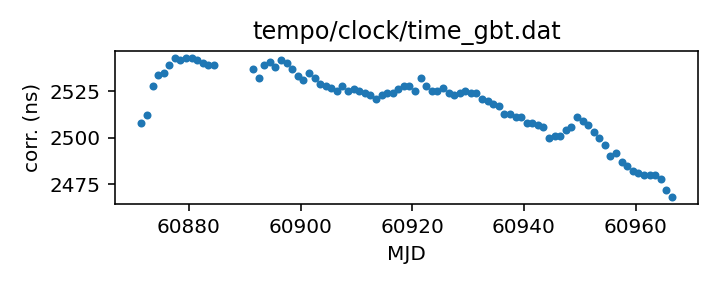
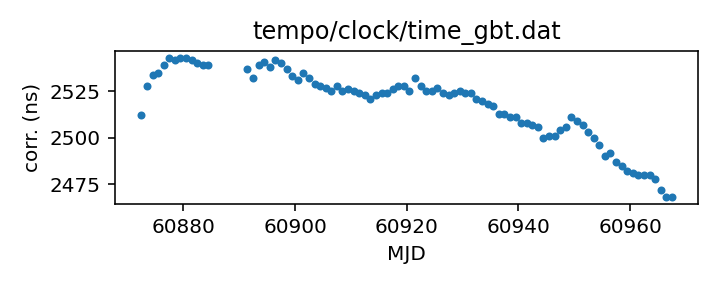
Routine gh-pages update from Github action Mon Oct 20 20:43:03 UTC 2025

diff --git a/status.md b/status.md
@@ -13,18 +13,18 @@ name of each clock file links to a page with more details.
 
 | Name | File | Corrections start | Corrections end | Last check date | Last check result 
 |:--- |:--- | --- | --- | --- |:--- 
-| [GPS to UTC](T2runtime/clock/gps2utc.clk.html) | `T2runtime/clock/gps2utc.clk` | 1993-01-01 MJD 48988.0 | 2025-09-26 MJD 60944.0 | 2025-10-19 | Unchanged 
-| [GPS to UTC (Combined Clock)](T2runtime/clock/gps2utc_cc.clk.html) | `T2runtime/clock/gps2utc_cc.clk` | 1993-01-01 MJD 48988.0 | 2025-09-26 MJD 60944.0 | 2025-10-19 | Unchanged 
-| [GPS to UTC (Corrected)](T2runtime/clock/gps2utc_c0p.clk.html) | `T2runtime/clock/gps2utc_c0p.clk` | 2010-12-29 MJD 55559.0 | 2025-09-26 MJD 60944.0 | 2025-10-19 | Unchanged 
-| [GBT](tempo/clock/time_gbt.dat.html) | `tempo/clock/time_gbt.dat` | 2000-12-31 MJD 51909.5 | 2025-10-18 MJD 60966.5 | 2025-10-19 | Updated 
-| [GBT (TEMPO2 converted from TEMPO)](T2runtime/clock/gbt2gps.clk.html) | `T2runtime/clock/gbt2gps.clk` | 2000-12-31 MJD 51909.5 | 2024-05-18 MJD 60448.5 | 2025-10-19 | **Validation failed** 
-| [Jodrell Bank](T2runtime/clock/jb2gps.clk.html) | `T2runtime/clock/jb2gps.clk` | 2006-10-13 MJD 54021.4 | 2025-10-08 MJD 60956.0 | 2025-10-13 | Updated 
-| [Jodrell Bank Roach](T2runtime/clock/jbroach2jb.clk.html) | `T2runtime/clock/jbroach2jb.clk` | 2006-10-13 MJD 54021.4 | 2018-03-20 MJD 58197.6 | 2025-10-13 | Unchanged 
-| [Jodrell Bank DFB](T2runtime/clock/jbdfb2jb.clk.html) | `T2runtime/clock/jbdfb2jb.clk` | 2006-10-13 MJD 54021.4 | 2021-02-22 MJD 59268.0 | 2025-10-13 | Unchanged 
-| [Meerkat (observatory)](T2runtime/clock/mk2utc_observatory.clk.html) | `T2runtime/clock/mk2utc_observatory.clk` | 2019-01-01 MJD 58484.0 | 2025-10-02 MJD 60951.0 | 2025-10-13 | Updated 
-| [Leap seconds](tempo/clock/leap.sec.html) | `tempo/clock/leap.sec` | 1972-07-01 MJD 41499.0 | 2017-01-01 MJD 57754.0 | 2025-10-19 | Unchanged 
-| [UT1 table](tempo/clock/ut1.dat.html) | `tempo/clock/ut1.dat` | 1973-01-02 MJD 41684.0 | 2026-10-24 MJD 61337.0 | 2025-10-19 | Unchanged 
-| [UT1 table](T2runtime/clock/ut1.dat.html) | `T2runtime/clock/ut1.dat` | 1973-01-02 MJD 41684.0 | 2026-10-24 MJD 61337.0 | 2025-10-19 | Unchanged 
+| [GPS to UTC](T2runtime/clock/gps2utc.clk.html) | `T2runtime/clock/gps2utc.clk` | 1993-01-01 MJD 48988.0 | 2025-09-26 MJD 60944.0 | 2025-10-20 | Unchanged 
+| [GPS to UTC (Combined Clock)](T2runtime/clock/gps2utc_cc.clk.html) | `T2runtime/clock/gps2utc_cc.clk` | 1993-01-01 MJD 48988.0 | 2025-09-26 MJD 60944.0 | 2025-10-20 | Unchanged 
+| [GPS to UTC (Corrected)](T2runtime/clock/gps2utc_c0p.clk.html) | `T2runtime/clock/gps2utc_c0p.clk` | 2010-12-29 MJD 55559.0 | 2025-09-26 MJD 60944.0 | 2025-10-20 | Unchanged 
+| [GBT](tempo/clock/time_gbt.dat.html) | `tempo/clock/time_gbt.dat` | 2000-12-31 MJD 51909.5 | 2025-10-19 MJD 60967.5 | 2025-10-20 | Updated 
+| [GBT (TEMPO2 converted from TEMPO)](T2runtime/clock/gbt2gps.clk.html) | `T2runtime/clock/gbt2gps.clk` | 2000-12-31 MJD 51909.5 | 2024-05-18 MJD 60448.5 | 2025-10-20 | **Validation failed** 
+| [Jodrell Bank](T2runtime/clock/jb2gps.clk.html) | `T2runtime/clock/jb2gps.clk` | 2006-10-13 MJD 54021.4 | 2025-10-08 MJD 60956.0 | 2025-10-20 | Unchanged 
+| [Jodrell Bank Roach](T2runtime/clock/jbroach2jb.clk.html) | `T2runtime/clock/jbroach2jb.clk` | 2006-10-13 MJD 54021.4 | 2018-03-20 MJD 58197.6 | 2025-10-20 | Unchanged 
+| [Jodrell Bank DFB](T2runtime/clock/jbdfb2jb.clk.html) | `T2runtime/clock/jbdfb2jb.clk` | 2006-10-13 MJD 54021.4 | 2021-02-22 MJD 59268.0 | 2025-10-20 | Unchanged 
+| [Meerkat (observatory)](T2runtime/clock/mk2utc_observatory.clk.html) | `T2runtime/clock/mk2utc_observatory.clk` | 2019-01-01 MJD 58484.0 | 2025-10-02 MJD 60951.0 | 2025-10-20 | Unchanged 
+| [Leap seconds](tempo/clock/leap.sec.html) | `tempo/clock/leap.sec` | 1972-07-01 MJD 41499.0 | 2017-01-01 MJD 57754.0 | 2025-10-20 | Unchanged 
+| [UT1 table](tempo/clock/ut1.dat.html) | `tempo/clock/ut1.dat` | 1973-01-02 MJD 41684.0 | 2026-10-24 MJD 61337.0 | 2025-10-20 | Unchanged 
+| [UT1 table](T2runtime/clock/ut1.dat.html) | `T2runtime/clock/ut1.dat` | 1973-01-02 MJD 41684.0 | 2026-10-24 MJD 61337.0 | 2025-10-20 | Unchanged 
 
 
 
@@ -68,26 +68,26 @@ name of each clock file links to a page with more details.
 
 | Name | File | Corrections start | Corrections end | Last check date | Last check result 
 |:--- |:--- | --- | --- | --- |:--- 
-| [GPS to UTC (TEMPO2)](T2runtime/clock/gpst2utc_tempo2.clk.html) | `T2runtime/clock/gpst2utc_tempo2.clk` | 1993-01-01 MJD 48988.0 | 2024-12-30 MJD 60674.0 | 2025-10-13 | Unchanged 
-| [GBT (TEMPO2)](T2runtime/clock/gbt2gps_tempo2.clk.html) | `T2runtime/clock/gbt2gps_tempo2.clk` | 2000-12-31 MJD 51909.5 | 2020-02-25 MJD 58904.5 | 2025-10-13 | Unchanged 
-| [Jodrell Bank (TEMPO)](tempo/clock/time_jb.dat.html) | `tempo/clock/time_jb.dat` | 2006-10-13 MJD 54021.4 | 2019-05-13 MJD 58616.2 | 2025-10-13 | Unchanged 
-| [VLA](tempo/clock/time_vla.dat.html) | `tempo/clock/time_vla.dat` | 1990-10-27 MJD 48191.2 | 2025-02-10 MJD 60716.2 | 2025-10-13 | Unchanged 
-| [VLA (TEMPO2)](T2runtime/clock/vla2gps.clk.html) | `T2runtime/clock/vla2gps.clk` | 2015-02-01 MJD 57054.6 | 2025-02-10 MJD 60716.2 | 2025-10-13 | Unchanged 
-| [VLA to NIST](T2runtime/clock/vla2nist.clk.html) | `T2runtime/clock/vla2nist.clk` | 1990-10-27 MJD 48191.2 | 1993-11-13 MJD 49304.0 | 2025-10-13 | Unchanged 
-| [FAST](tempo/clock/time_fast.dat.html) | `tempo/clock/time_fast.dat` | 2017-07-27 MJD 57961.0 | 2025-08-25 MJD 60913.0 | 2025-10-13 | **Failed to download** 
-| [WSRT](T2runtime/clock/wsrt2gps.clk.html) | `T2runtime/clock/wsrt2gps.clk` | 1999-01-01 MJD 51179.5 | 2015-06-29 MJD 57202.1 | 2025-10-13 | Unchanged 
-| [WSRT (TEMPO)](tempo/clock/time_wsrt.dat.html) | `tempo/clock/time_wsrt.dat` | 1987-07-24 MJD 47000.0 | 2007-12-24 MJD 54458.0 | 2025-10-13 | **Validation failed** 
-| [Parkes](T2runtime/clock/pks2gps.clk.html) | `T2runtime/clock/pks2gps.clk` | 1858-11-17 MJD 0.0 | 2025-06-30 MJD 60856.1 | 2025-10-13 | Unchanged 
-| [Parkes (TEMPO)](tempo/clock/time_pks.dat.html) | `tempo/clock/time_pks.dat` | 1979-05-07 MJD 44000.0 | 2011-07-03 MJD 55745.8 | 2025-10-13 | Unchanged 
-| [SRT](T2runtime/clock/srt2gps.clk.html) | `T2runtime/clock/srt2gps.clk` | 2013-03-20 MJD 56371.0 | 2019-12-11 MJD 58828.0 | 2025-10-13 | Unchanged 
-| [Effelsberg](T2runtime/clock/eff2gps.clk.html) | `T2runtime/clock/eff2gps.clk` | 1993-11-29 MJD 49320.0 | 2015-06-22 MJD 57195.5 | 2025-10-13 | Unchanged 
-| [Effelsberg Asterix/PSRix](T2runtime/clock/effix2gps.clk.html) | `T2runtime/clock/effix2gps.clk` | 2011-01-01 MJD 55562.5 | 2021-03-21 MJD 59294.5 | 2025-10-13 | Unchanged 
-| [LEAP](T2runtime/clock/leap2effix.clk.html) | `T2runtime/clock/leap2effix.clk` | 2012-10-29 MJD 56230.0 | 2014-03-04 MJD 56720.0 | 2025-10-13 | Unchanged 
-| [NUPPI](tempo/clock/time_nuppi.dat.html) | `tempo/clock/time_nuppi.dat` | 2005-03-07 MJD 53436.0 | 2015-11-08 MJD 57334.6 | 2025-10-13 | Unchanged 
-| [Meerkat (TEMPO2)](T2runtime/clock/mk2utc.clk.html) | `T2runtime/clock/mk2utc.clk` | 2019-01-01 MJD 58484.0 | 2024-09-23 MJD 60576.9 | 2025-10-13 | **Validation failed** 
-| [MOST](T2runtime/clock/mo2gps.clk.html) | `T2runtime/clock/mo2gps.clk` | 2003-12-27 MJD 53000.0 | 2018-09-06 MJD 58367.0 | 2025-10-13 | Unchanged 
-| [Nancay to obspm](T2runtime/clock/ncyobs2obspm.clk.html) | `T2runtime/clock/ncyobs2obspm.clk` | 1988-05-18 MJD 47299.6 | 2024-12-30 MJD 60674.0 | 2025-10-13 | Unchanged 
-| [obspm](T2runtime/clock/obspm2gps.clk.html) | `T2runtime/clock/obspm2gps.clk` | 2003-12-01 MJD 52974.0 | 2023-10-27 MJD 60244.0 | 2025-10-13 | Unchanged 
+| [GPS to UTC (TEMPO2)](T2runtime/clock/gpst2utc_tempo2.clk.html) | `T2runtime/clock/gpst2utc_tempo2.clk` | 1993-01-01 MJD 48988.0 | 2024-12-30 MJD 60674.0 | 2025-10-20 | Unchanged 
+| [GBT (TEMPO2)](T2runtime/clock/gbt2gps_tempo2.clk.html) | `T2runtime/clock/gbt2gps_tempo2.clk` | 2000-12-31 MJD 51909.5 | 2020-02-25 MJD 58904.5 | 2025-10-20 | Unchanged 
+| [Jodrell Bank (TEMPO)](tempo/clock/time_jb.dat.html) | `tempo/clock/time_jb.dat` | 2006-10-13 MJD 54021.4 | 2019-05-13 MJD 58616.2 | 2025-10-20 | Unchanged 
+| [VLA](tempo/clock/time_vla.dat.html) | `tempo/clock/time_vla.dat` | 1990-10-27 MJD 48191.2 | 2025-02-10 MJD 60716.2 | 2025-10-20 | Unchanged 
+| [VLA (TEMPO2)](T2runtime/clock/vla2gps.clk.html) | `T2runtime/clock/vla2gps.clk` | 2015-02-01 MJD 57054.6 | 2025-02-10 MJD 60716.2 | 2025-10-20 | Unchanged 
+| [VLA to NIST](T2runtime/clock/vla2nist.clk.html) | `T2runtime/clock/vla2nist.clk` | 1990-10-27 MJD 48191.2 | 1993-11-13 MJD 49304.0 | 2025-10-20 | Unchanged 
+| [FAST](tempo/clock/time_fast.dat.html) | `tempo/clock/time_fast.dat` | 2017-07-27 MJD 57961.0 | 2025-08-25 MJD 60913.0 | 2025-10-20 | **Failed to download** 
+| [WSRT](T2runtime/clock/wsrt2gps.clk.html) | `T2runtime/clock/wsrt2gps.clk` | 1999-01-01 MJD 51179.5 | 2015-06-29 MJD 57202.1 | 2025-10-20 | Unchanged 
+| [WSRT (TEMPO)](tempo/clock/time_wsrt.dat.html) | `tempo/clock/time_wsrt.dat` | 1987-07-24 MJD 47000.0 | 2007-12-24 MJD 54458.0 | 2025-10-20 | **Validation failed** 
+| [Parkes](T2runtime/clock/pks2gps.clk.html) | `T2runtime/clock/pks2gps.clk` | 1858-11-17 MJD 0.0 | 2025-06-30 MJD 60856.1 | 2025-10-20 | Unchanged 
+| [Parkes (TEMPO)](tempo/clock/time_pks.dat.html) | `tempo/clock/time_pks.dat` | 1979-05-07 MJD 44000.0 | 2011-07-03 MJD 55745.8 | 2025-10-20 | Unchanged 
+| [SRT](T2runtime/clock/srt2gps.clk.html) | `T2runtime/clock/srt2gps.clk` | 2013-03-20 MJD 56371.0 | 2019-12-11 MJD 58828.0 | 2025-10-20 | Unchanged 
+| [Effelsberg](T2runtime/clock/eff2gps.clk.html) | `T2runtime/clock/eff2gps.clk` | 1993-11-29 MJD 49320.0 | 2015-06-22 MJD 57195.5 | 2025-10-20 | Unchanged 
+| [Effelsberg Asterix/PSRix](T2runtime/clock/effix2gps.clk.html) | `T2runtime/clock/effix2gps.clk` | 2011-01-01 MJD 55562.5 | 2021-03-21 MJD 59294.5 | 2025-10-20 | Unchanged 
+| [LEAP](T2runtime/clock/leap2effix.clk.html) | `T2runtime/clock/leap2effix.clk` | 2012-10-29 MJD 56230.0 | 2014-03-04 MJD 56720.0 | 2025-10-20 | Unchanged 
+| [NUPPI](tempo/clock/time_nuppi.dat.html) | `tempo/clock/time_nuppi.dat` | 2005-03-07 MJD 53436.0 | 2015-11-08 MJD 57334.6 | 2025-10-20 | Unchanged 
+| [Meerkat (TEMPO2)](T2runtime/clock/mk2utc.clk.html) | `T2runtime/clock/mk2utc.clk` | 2019-01-01 MJD 58484.0 | 2024-09-23 MJD 60576.9 | 2025-10-20 | **Validation failed** 
+| [MOST](T2runtime/clock/mo2gps.clk.html) | `T2runtime/clock/mo2gps.clk` | 2003-12-27 MJD 53000.0 | 2018-09-06 MJD 58367.0 | 2025-10-20 | Unchanged 
+| [Nancay to obspm](T2runtime/clock/ncyobs2obspm.clk.html) | `T2runtime/clock/ncyobs2obspm.clk` | 1988-05-18 MJD 47299.6 | 2024-12-30 MJD 60674.0 | 2025-10-20 | Unchanged 
+| [obspm](T2runtime/clock/obspm2gps.clk.html) | `T2runtime/clock/obspm2gps.clk` | 2003-12-01 MJD 52974.0 | 2023-10-27 MJD 60244.0 | 2025-10-20 | Unchanged 
 
 
 ### Further information:

diff --git a/T2runtime/clock/gbt2gps.clk.md b/T2runtime/clock/gbt2gps.clk.md
@@ -25,12 +25,11 @@ If questions arise about the conversion, contact Anne Archibald
 | Clock file start | 2000-12-31 MJD 51909.5 |
 | Clock file end | 2024-05-18 MJD 60448.5 |
 | Update interval (days) | 1 |
-| Last update attempt | 2025-10-19 |
+| Last update attempt | 2025-10-20 |
 | Last update result | Validation failed |
 
 Log entries from the last few update attempts:
 ```
-2025-10-10 20:40:01.663 - Validation failed: New version of T2runtime/clock/gbt2gps.clk MJDs differ from old version where they overlap in 8407 places
 2025-10-11 20:35:26.153 - Validation failed: New version of T2runtime/clock/gbt2gps.clk MJDs differ from old version where they overlap in 8407 places
 2025-10-12 20:37:12.199 - Validation failed: New version of T2runtime/clock/gbt2gps.clk MJDs differ from old version where they overlap in 8407 places
 2025-10-13 20:39:37.827 - Validation failed: New version of T2runtime/clock/gbt2gps.clk MJDs differ from old version where they overlap in 8407 places
@@ -40,6 +39,7 @@ Log entries from the last few update attempts:
 2025-10-17 20:39:52.751 - Validation failed: New version of T2runtime/clock/gbt2gps.clk MJDs differ from old version where they overlap in 8407 places
 2025-10-18 20:36:47.257 - Validation failed: New version of T2runtime/clock/gbt2gps.clk MJDs differ from old version where they overlap in 8407 places
 2025-10-19 20:38:07.647 - Validation failed: New version of T2runtime/clock/gbt2gps.clk MJDs differ from old version where they overlap in 8407 places
+2025-10-20 20:42:22.767 - Validation failed: New version of T2runtime/clock/gbt2gps.clk MJDs differ from old version where they overlap in 8407 places
 ```
 [Full log](https://raw.githubusercontent.com/ipta/pulsar-clock-corrections/main/log/T2runtime/clock/gbt2gps.clk.log)
 

diff --git a/T2runtime/clock/mk2utc.clk.md b/T2runtime/clock/mk2utc.clk.md
@@ -17,12 +17,11 @@ up-to-date.
 | Clock file start | 2019-01-01 MJD 58484.0 |
 | Clock file end | 2024-09-23 MJD 60576.9 |
 | Update interval (days) | 7 |
-| Last update attempt | 2025-10-13 |
+| Last update attempt | 2025-10-20 |
 | Last update result | Validation failed |
 
 Log entries from the last few update attempts:
 ```
-2025-08-11 20:42:56.476 - Validation failed: New version of T2runtime/clock/mk2utc.clk MJDs differ from old version where they overlap in 8252 places
 2025-08-18 20:41:43.006 - Validation failed: New version of T2runtime/clock/mk2utc.clk MJDs differ from old version where they overlap in 8252 places
 2025-08-25 20:42:36.637 - Validation failed: New version of T2runtime/clock/mk2utc.clk MJDs differ from old version where they overlap in 8252 places
 2025-09-01 20:38:36.267 - Validation failed: New version of T2runtime/clock/mk2utc.clk MJDs differ from old version where they overlap in 8252 places
@@ -32,6 +31,7 @@ Log entries from the last few update attempts:
 2025-09-29 20:37:24.227 - Validation failed: New version of T2runtime/clock/mk2utc.clk MJDs differ from old version where they overlap in 8252 places
 2025-10-06 20:40:08.391 - Validation failed: New version of T2runtime/clock/mk2utc.clk MJDs differ from old version where they overlap in 8252 places
 2025-10-13 20:39:52.771 - Validation failed: New version of T2runtime/clock/mk2utc.clk MJDs differ from old version where they overlap in 8252 places
+2025-10-20 20:42:38.257 - Validation failed: New version of T2runtime/clock/mk2utc.clk MJDs differ from old version where they overlap in 8252 places
 ```
 [Full log](https://raw.githubusercontent.com/ipta/pulsar-clock-corrections/main/log/T2runtime/clock/mk2utc.clk.log)
 

diff --git a/tempo/clock/time_wsrt.dat.md b/tempo/clock/time_wsrt.dat.md
@@ -20,12 +20,11 @@ should be the same information.
 | Clock file start | 1987-07-24 MJD 47000.0 |
 | Clock file end | 2007-12-24 MJD 54458.0 |
 | Update interval (days) | 7 |
-| Last update attempt | 2025-10-13 |
+| Last update attempt | 2025-10-20 |
 | Last update result | Validation failed |
 
 Log entries from the last few update attempts:
 ```
-2025-08-11 20:42:44.619 - Validation failed: New version of tempo/clock/time_wsrt.dat MJDs differ from old version where they overlap in 5 places
 2025-08-18 20:41:31.066 - Validation failed: New version of tempo/clock/time_wsrt.dat MJDs differ from old version where they overlap in 5 places
 2025-08-25 20:42:24.255 - Validation failed: New version of tempo/clock/time_wsrt.dat MJDs differ from old version where they overlap in 5 places
 2025-09-01 20:38:23.095 - Validation failed: New version of tempo/clock/time_wsrt.dat MJDs differ from old version where they overlap in 5 places
@@ -35,6 +34,7 @@ Log entries from the last few update attempts:
 2025-09-29 20:37:17.520 - Validation failed: New version of tempo/clock/time_wsrt.dat MJDs differ from old version where they overlap in 5 places
 2025-10-06 20:39:57.443 - Validation failed: New version of tempo/clock/time_wsrt.dat MJDs differ from old version where they overlap in 5 places
 2025-10-13 20:39:41.501 - Validation failed: New version of tempo/clock/time_wsrt.dat MJDs differ from old version where they overlap in 5 places
+2025-10-20 20:42:26.146 - Validation failed: New version of tempo/clock/time_wsrt.dat MJDs differ from old version where they overlap in 5 places
 ```
 [Full log](https://raw.githubusercontent.com/ipta/pulsar-clock-corrections/main/log/tempo/clock/time_wsrt.dat.log)
 

diff --git a/T2runtime/clock/mk2utc_observatory.clk.md b/T2runtime/clock/mk2utc_observatory.clk.md
@@ -21,12 +21,11 @@ If questions arise, contact Ryan Shannon <rshannon@swin.edu.au>
 | Clock file start | 2019-01-01 MJD 58484.0 |
 | Clock file end | 2025-10-02 MJD 60951.0 |
 | Update interval (days) | 7 |
-| Last update attempt | 2025-10-13 |
-| Last update result | Updated |
+| Last update attempt | 2025-10-20 |
+| Last update result | Unchanged |
 
 Log entries from the last few update attempts:
 ```
-2025-08-11 20:42:54.993 - Updated
 2025-08-18 20:41:41.526 - Unchanged
 2025-08-25 20:42:34.702 - Unchanged
 2025-09-01 20:38:34.421 - Updated
@@ -36,6 +35,7 @@ Log entries from the last few update attempts:
 2025-09-29 20:37:22.935 - Validation failed: Unable to read new version of T2runtime/clock/mk2utc_observatory.clk: Clock file /tmp/astropy-download-3302-dwp2zb0z appears to be out of order: 60933.96875 > 60929.0
 2025-10-06 20:40:07.077 - Validation failed: Unable to read new version of T2runtime/clock/mk2utc_observatory.clk: Clock file /tmp/astropy-download-3288-vga3zoa1 appears to be out of order: 60933.96875 > 60929.0
 2025-10-13 20:39:51.453 - Updated
+2025-10-20 20:42:36.844 - Unchanged
 ```
 [Full log](https://raw.githubusercontent.com/ipta/pulsar-clock-corrections/main/log/T2runtime/clock/mk2utc_observatory.clk.log)
 

diff --git a/tempo/clock/time_gbt.dat.md b/tempo/clock/time_gbt.dat.md
@@ -36,14 +36,13 @@ If questions arise, contact Ryan S. Lynch <rlynch@nrao.edu>.
 | Format | tempo |
 | Bogus last correction | False |
 | Clock file start | 2000-12-31 MJD 51909.5 |
-| Clock file end | 2025-10-18 MJD 60966.5 |
+| Clock file end | 2025-10-19 MJD 60967.5 |
 | Update interval (days) | 1 |
-| Last update attempt | 2025-10-19 |
+| Last update attempt | 2025-10-20 |
 | Last update result | Updated |
 
 Log entries from the last few update attempts:
 ```
-2025-10-10 20:40:01.601 - Updated
 2025-10-11 20:35:26.089 - Updated
 2025-10-12 20:37:12.134 - Updated
 2025-10-13 20:39:37.511 - Updated
@@ -53,6 +52,7 @@ Log entries from the last few update attempts:
 2025-10-17 20:39:52.679 - Updated
 2025-10-18 20:36:47.191 - Updated
 2025-10-19 20:38:07.572 - Updated
+2025-10-20 20:42:22.487 - Updated
 ```
 [Full log](https://raw.githubusercontent.com/ipta/pulsar-clock-corrections/main/log/tempo/clock/time_gbt.dat.log)
 

diff --git a/tempo/clock/time_fast.dat.md b/tempo/clock/time_fast.dat.md
@@ -16,12 +16,11 @@ This file is pulled from the FAST_ClockFile repository.
 | Clock file start | 2017-07-27 MJD 57961.0 |
 | Clock file end | 2025-08-25 MJD 60913.0 |
 | Update interval (days) | 7 |
-| Last update attempt | 2025-10-13 |
+| Last update attempt | 2025-10-20 |
 | Last update result | Failed to download |
 
 Log entries from the last few update attempts:
 ```
-2025-08-11 20:42:44.120 - Updated
 2025-08-18 20:41:30.519 - Updated
 2025-08-25 20:42:23.417 - Updated
 2025-09-01 20:38:22.263 - Updated
@@ -31,6 +30,7 @@ Log entries from the last few update attempts:
 2025-09-29 20:37:16.851 - Unchanged
 2025-10-06 20:39:56.798 - Unchanged
 2025-10-13 20:39:40.875 - Failed to download: HTTP Error 404: Not Found
+2025-10-20 20:42:25.725 - Failed to download: HTTP Error 404: Not Found
 ```
 [Full log](https://raw.githubusercontent.com/ipta/pulsar-clock-corrections/main/log/tempo/clock/time_fast.dat.log)
 

diff --git a/T2runtime/clock/pks2gps.clk.md b/T2runtime/clock/pks2gps.clk.md
@@ -35,12 +35,11 @@ we retain it.
 | Clock file start | 1858-11-17 MJD 0.0 |
 | Clock file end | 2025-06-30 MJD 60856.1 |
 | Update interval (days) | 7 |
-| Last update attempt | 2025-10-13 |
+| Last update attempt | 2025-10-20 |
 | Last update result | Unchanged |
 
 Log entries from the last few update attempts:
 ```
-2025-08-11 20:42:49.102 - Unchanged
 2025-08-18 20:41:36.154 - Unchanged
 2025-08-25 20:42:27.648 - Unchanged
 2025-09-01 20:38:26.998 - Unchanged
@@ -50,6 +49,7 @@ Log entries from the last few update attempts:
 2025-09-29 20:37:17.888 - Validation failed: New version of T2runtime/clock/pks2gps.clk has decreased from 46535 to 46325 measurements.
 2025-10-06 20:40:02.012 - Unchanged
 2025-10-13 20:39:46.433 - Unchanged
+2025-10-20 20:42:32.029 - Unchanged
 ```
 [Full log](https://raw.githubusercontent.com/ipta/pulsar-clock-corrections/main/log/T2runtime/clock/pks2gps.clk.log)
 

diff --git a/T2runtime/clock/jb2gps.clk.md b/T2runtime/clock/jb2gps.clk.md
@@ -24,12 +24,11 @@ If questions arise, contact Michael Keith
 | Clock file start | 2006-10-13 MJD 54021.4 |
 | Clock file end | 2025-10-08 MJD 60956.0 |
 | Update interval (days) | 7 |
-| Last update attempt | 2025-10-13 |
-| Last update result | Updated |
+| Last update attempt | 2025-10-20 |
+| Last update result | Unchanged |
 
 Log entries from the last few update attempts:
 ```
-2025-08-11 20:42:42.581 - Unchanged
 2025-08-18 20:41:28.886 - Unchanged
 2025-08-25 20:42:20.747 - Unchanged
 2025-09-01 20:38:18.784 - Unchanged
@@ -39,6 +38,7 @@ Log entries from the last few update attempts:
 2025-09-29 20:37:15.657 - Unchanged
 2025-10-06 20:39:55.609 - Unchanged
 2025-10-13 20:39:39.898 - Updated
+2025-10-20 20:42:24.686 - Unchanged
 ```
 [Full log](https://raw.githubusercontent.com/ipta/pulsar-clock-corrections/main/log/T2runtime/clock/jb2gps.clk.log)
 

diff --git a/T2runtime/clock/gps2utc_c0p.clk.md b/T2runtime/clock/gps2utc_c0p.clk.md
@@ -30,12 +30,11 @@ about the BIPM's published corrections, contact <tai@bipm.org>.
 | Clock file start | 2010-12-29 MJD 55559.0 |
 | Clock file end | 2025-09-26 MJD 60944.0 |
 | Update interval (days) | 1 |
-| Last update attempt | 2025-10-19 |
+| Last update attempt | 2025-10-20 |
 | Last update result | Unchanged |
 
 Log entries from the last few update attempts:
 ```
-2025-10-10 20:40:00.762 - Updated
 2025-10-11 20:35:25.411 - Unchanged
 2025-10-12 20:37:11.498 - Unchanged
 2025-10-13 20:39:36.945 - Unchanged
@@ -45,6 +44,7 @@ Log entries from the last few update attempts:
 2025-10-17 20:39:52.319 - Unchanged
 2025-10-18 20:36:46.631 - Unchanged
 2025-10-19 20:38:07.064 - Unchanged
+2025-10-20 20:42:22.080 - Unchanged
 ```
 [Full log](https://raw.githubusercontent.com/ipta/pulsar-clock-corrections/main/log/T2runtime/clock/gps2utc_c0p.clk.log)
 

diff --git a/tempo/clock/time_pks.dat.md b/tempo/clock/time_pks.dat.md
@@ -20,12 +20,11 @@ telescopes in the same file, distinguished only by observatory code.
 | Clock file start | 1979-05-07 MJD 44000.0 |
 | Clock file end | 2011-07-03 MJD 55745.8 |
 | Update interval (days) | 7 |
-| Last update attempt | 2025-10-13 |
+| Last update attempt | 2025-10-20 |
 | Last update result | Unchanged |
 
 Log entries from the last few update attempts:
 ```
-2025-08-11 20:42:49.362 - Unchanged
 2025-08-18 20:41:36.496 - Unchanged
 2025-08-25 20:42:27.890 - Unchanged
 2025-09-01 20:38:27.261 - Unchanged
@@ -35,6 +34,7 @@ Log entries from the last few update attempts:
 2025-09-29 20:37:18.213 - Unchanged
 2025-10-06 20:40:02.549 - Unchanged
 2025-10-13 20:39:46.707 - Unchanged
+2025-10-20 20:42:32.593 - Unchanged
 ```
 [Full log](https://raw.githubusercontent.com/ipta/pulsar-clock-corrections/main/log/tempo/clock/time_pks.dat.log)
 

diff --git a/T2runtime/clock/gps2utc_cc.clk.md b/T2runtime/clock/gps2utc_cc.clk.md
@@ -29,12 +29,11 @@ about the BIPM's published corrections, contact <tai@bipm.org>.
 | Clock file start | 1993-01-01 MJD 48988.0 |
 | Clock file end | 2025-09-26 MJD 60944.0 |
 | Update interval (days) | 1 |
-| Last update attempt | 2025-10-19 |
+| Last update attempt | 2025-10-20 |
 | Last update result | Unchanged |
 
 Log entries from the last few update attempts:
 ```
-2025-10-10 20:40:00.737 - Updated
 2025-10-11 20:35:25.403 - Unchanged
 2025-10-12 20:37:11.490 - Unchanged
 2025-10-13 20:39:36.937 - Unchanged
@@ -44,6 +43,7 @@ Log entries from the last few update attempts:
 2025-10-17 20:39:52.309 - Unchanged
 2025-10-18 20:36:46.623 - Unchanged
 2025-10-19 20:38:07.054 - Unchanged
+2025-10-20 20:42:22.070 - Unchanged
 ```
 [Full log](https://raw.githubusercontent.com/ipta/pulsar-clock-corrections/main/log/T2runtime/clock/gps2utc_cc.clk.log)
 
